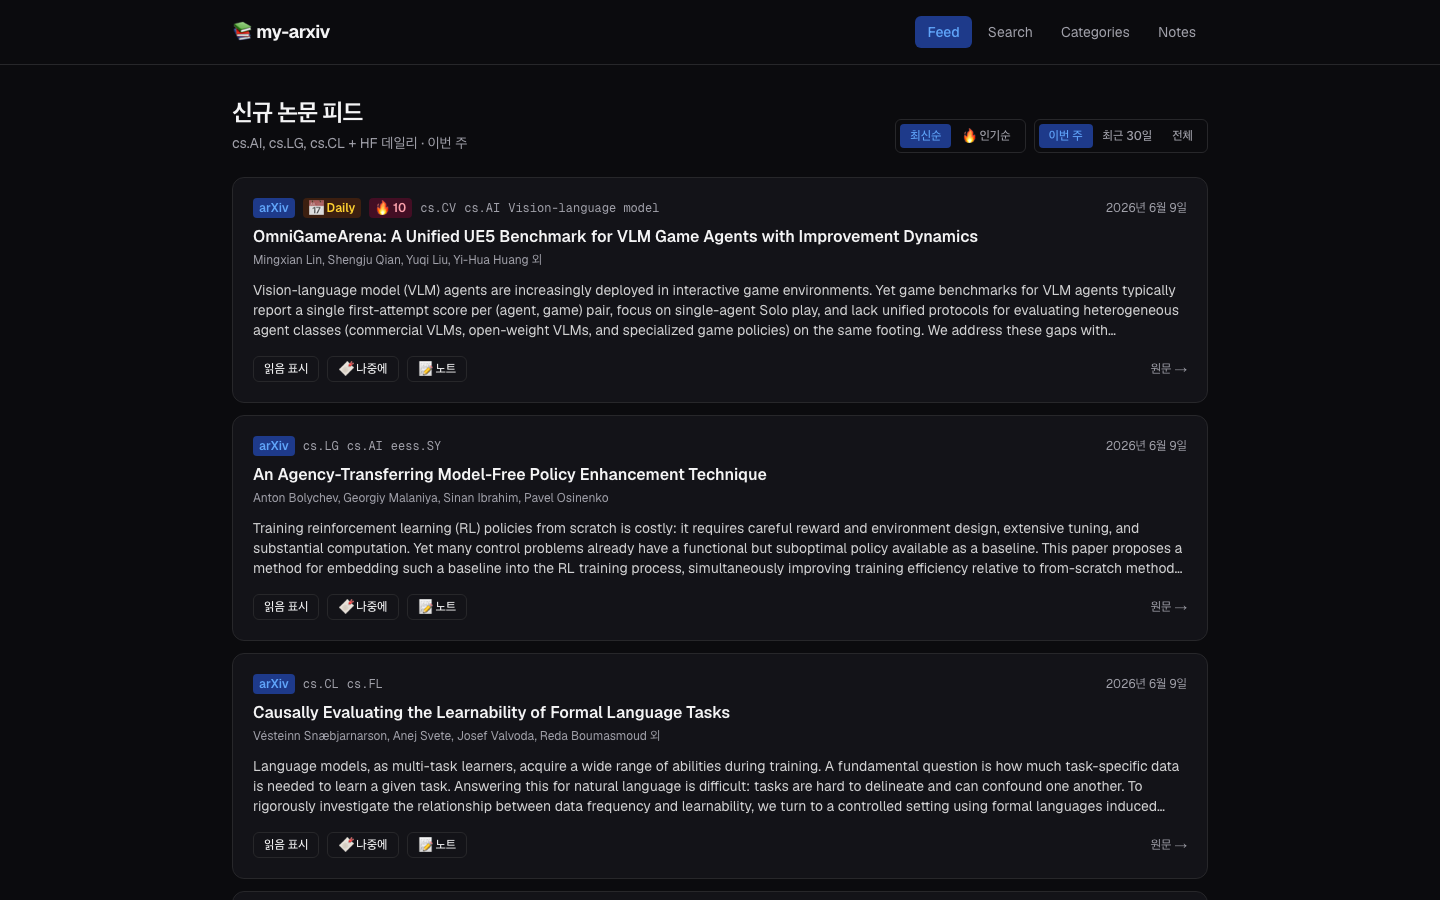
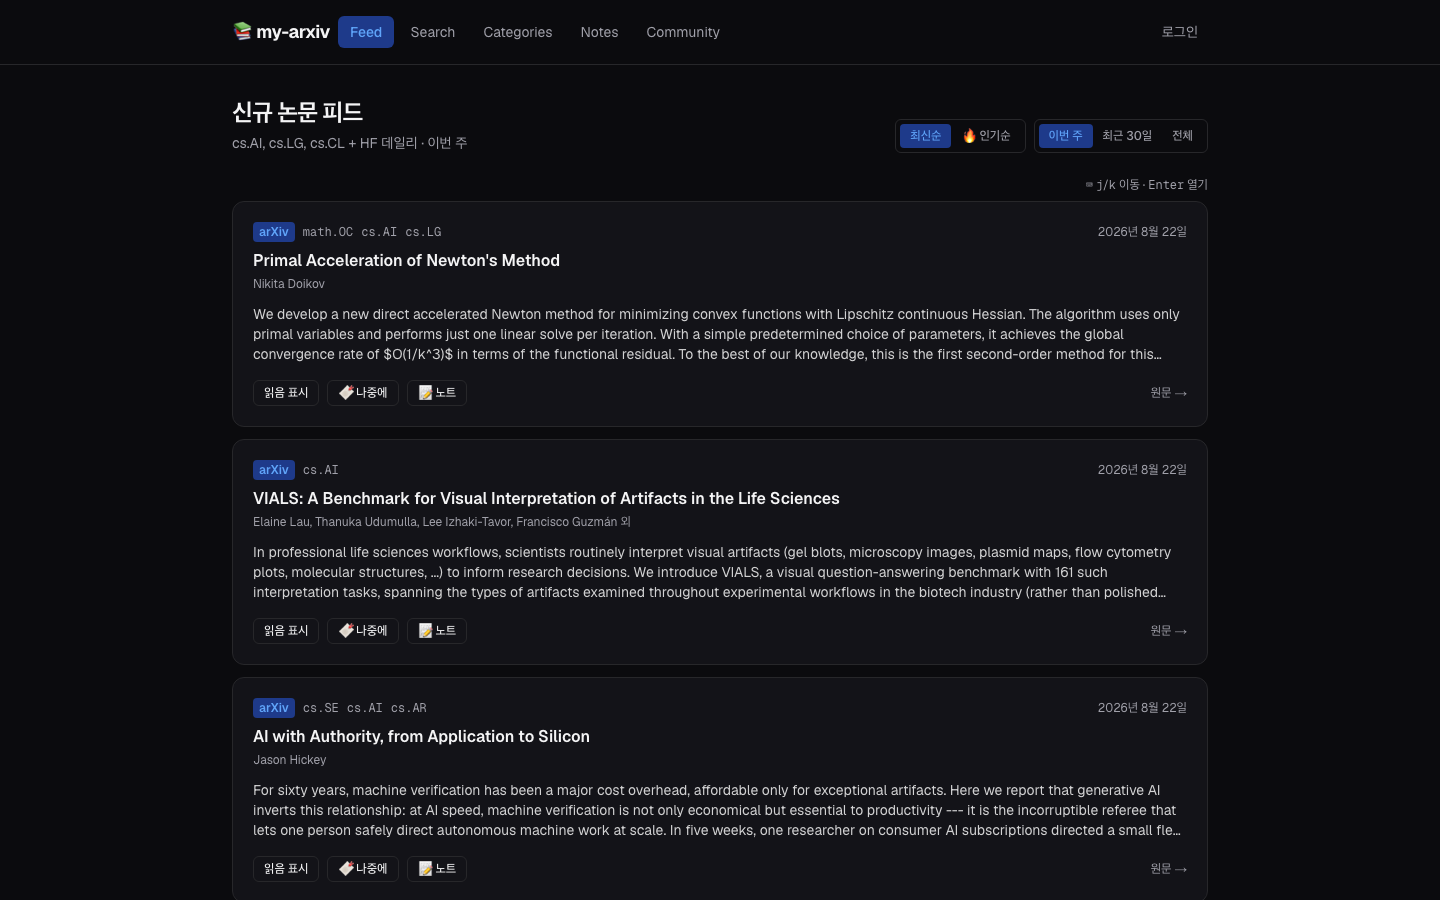
chore: EN years span-based, refresh my-arxiv card
- EN now reads "6+ yrs" from career.spanYears (first job → today, gaps
  included), which is what English résumés conventionally mean. KO keeps
  년차 off the gap-excluded sum, matching Korean convention. Both derive
  from the same experience dates.

- my-arxiv grew well past "feed + abstract summary": Gemini now answers
  free-form questions grounded in the paper's full text (arxiv.org/html
  with abstract fallback, guarded against answering beyond source), and
  there's a study-writeup community on Supabase Auth + RLS with
  comments, likes, profiles, and image uploads. Screenshot re-captured;
  stack picks up Supabase/OAuth/PWA and drops the stale Docker/GHCR.

diff --git a/lib/profile.ts b/lib/profile.ts
@@ -83,8 +83,9 @@ const sideProjectsBase = {
       "Gemini 2.5 Flash",
       "arXiv Atom API",
       "HuggingFace API",
-      "Docker",
-      "GHCR",
+      "Supabase (Postgres · Auth · RLS)",
+      "GitHub OAuth",
+      "PWA",
     ],
   },
   noodle: {
@@ -236,14 +237,14 @@ const profileKo = {
     {
       ...sideProjectsBase.myArxiv,
       name: "my-arxiv 📰",
-      tagline: "관심 분야의 신규 논문을 한 곳에서 — Gemini로 한국어 요약까지",
+      tagline: "논문 디스커버리부터 학습 공유까지 — 한국어 요약·Q&A가 붙은 커뮤니티",
       description:
-        "arXiv + HuggingFace Daily Papers를 통합 피드로 머지하고, Gemini 2.5 Flash로 abstract를 한국어 요약. 카테고리 토글·통합 검색·노트·읽음 기록까지 자체 디스커버리 워크플로우.",
+        "arXiv + HuggingFace Daily Papers를 통합 피드로 머지하고, Gemini 2.5 Flash가 논문 본문(arxiv.org/html, 없으면 abstract 폴백)을 근거로 구조화 한국어 요약과 자유 Q&A를 제공. 근거 밖 내용은 답하지 않도록 프롬프트 가드. 노트·읽음 추적에 더해 Supabase Auth·RLS 기반 학습 글 커뮤니티(댓글·좋아요·프로필·이미지 업로드)까지 확장했어요.",
       highlights: [
+        "본문 기반 요약 · Q&A",
         "arXiv + HF 통합 피드",
-        "Gemini 한국어 요약",
-        "Notes & 읽음 추적",
-        "Bio · 뇌과학 포함",
+        "커뮤니티 (RLS 권한)",
+        "PWA · 오프라인 캐시",
       ],
     },
     {
@@ -319,10 +320,10 @@ const profileEn: typeof profileKo = {
   ...contact,
   tagline: "AI Engineer shipping LLM systems to production",
   subtagline:
-    `${career.years}+ years taking RAG, agents, and MLOps from prototype to production — across finance, edtech, and healthcare.`,
+    `${career.spanYears}+ years taking RAG, agents, and MLOps from prototype to production — across finance, edtech, and healthcare.`,
 
   stats: [
-    { label: "Experience", value: `${career.years}+ yrs` },
+    { label: "Experience", value: `${career.spanYears}+ yrs` },
     { label: "Production AI projects", value: "5+" },
     { label: "Papers published", value: "2" },
   ],
@@ -340,14 +341,14 @@ const profileEn: typeof profileKo = {
     {
       ...sideProjectsBase.myArxiv,
       name: "my-arxiv 📰",
-      tagline: "New papers in your fields, in one feed — Korean summaries via Gemini",
+      tagline: "From paper discovery to shared learning — Korean summaries, grounded Q&A, community",
       description:
-        "Merges arXiv + HuggingFace Daily Papers into one feed and summarizes abstracts in Korean with Gemini 2.5 Flash. A personal discovery workflow with category toggles, unified search, notes, and read-tracking.",
+        "Merges arXiv + HuggingFace Daily Papers into one feed, then has Gemini 2.5 Flash produce structured Korean summaries and answer free-form questions — grounded in the paper's full text (arxiv.org/html, falling back to the abstract), with prompt guards against answering beyond the source. Beyond notes and read-tracking, it now hosts a study-writeup community on Supabase Auth + RLS (comments, likes, profiles, image uploads).",
       highlights: [
+        "Full-text summary & Q&A",
         "arXiv + HF feed",
-        "Gemini KO summary",
-        "Notes & read-tracking",
-        "incl. bio · neuro",
+        "Community (RLS auth)",
+        "PWA · offline cache",
       ],
     },
     {

diff --git a/lib/career.ts b/lib/career.ts
@@ -2,39 +2,55 @@
 // on the site age by themselves. Nothing here is hand-maintained — editing
 // `experience` in profile.ts is enough.
 //
-// Sums each tenure rather than measuring first-job → today, because there are
-// gaps between roles (e.g. 2023.07 → 2024.01) that shouldn't be counted.
+// Two different readings, both used:
+// - `months`/`ko`  = sum of tenures, gaps excluded. Matches how Korean
+//   résumés state 총 경력, and feeds 년차.
+// - `spanYears`    = first job → today, gaps included. What "N+ years of
+//   experience" conventionally means on an English résumé.
 
 type Tenure = { period: string; role: string };
 
-/** "2025.12 – 현재" | "2020.04 – 2022.05" → months worked (end exclusive). */
-function tenureMonths(period: string, now: Date): number {
+/** "2025.12" → absolute month index. NaN when unparseable. */
+function toMonthIndex(ym: string): number {
+  const [y, m] = ym.split(".").map((n) => Number.parseInt(n, 10));
+  return Number.isFinite(y) ? y * 12 + (Number.isFinite(m) ? m : 1) : Number.NaN;
+}
+
+/** "2025.12 – 현재" | "2020.04 – 2022.05" → [startIdx, endIdx] (inclusive). */
+function parsePeriod(period: string, now: Date): [number, number] {
   const [rawStart, rawEnd = ""] = period.split(/[–-]/).map((s) => s.trim());
-  const [sy, sm] = rawStart.split(".").map((n) => Number.parseInt(n, 10));
-  if (!Number.isFinite(sy)) return 0;
-
+  const start = toMonthIndex(rawStart);
   const ongoing = rawEnd.includes("현재") || rawEnd === "";
-  const [ey, em] = ongoing
-    ? [now.getFullYear(), now.getMonth() + 1]
-    : rawEnd.split(".").map((n) => Number.parseInt(n, 10));
-  if (!Number.isFinite(ey)) return 0;
-
-  return Math.max(0, (ey - sy) * 12 + (em - (sm || 1)) + 1);
+  const end = ongoing
+    ? now.getFullYear() * 12 + (now.getMonth() + 1)
+    : toMonthIndex(rawEnd);
+  return [start, end];
 }
 
 export function computeCareer(tenures: Tenure[], now = new Date()) {
-  const months = tenures.reduce((sum, t) => sum + tenureMonths(t.period, now), 0);
+  const ranges = tenures
+    .map((t) => parsePeriod(t.period, now))
+    .filter(([s, e]) => Number.isFinite(s) && Number.isFinite(e));
+
+  // inclusive month count — "2020.04 – 2022.05" is 26 months, matching how
+  // these tenures are stated on the résumé itself
+  const months = ranges.reduce((sum, [s, e]) => sum + Math.max(0, e - s + 1), 0);
   const years = Math.floor(months / 12);
   const rest = months % 12;
 
-  // 년차: Korean convention counts the year you're currently in.
-  const nthYear = years + 1;
+  const firstStart = Math.min(...ranges.map(([s]) => s));
+  const nowIdx = now.getFullYear() * 12 + (now.getMonth() + 1);
+  const spanMonths = Math.max(0, nowIdx - firstStart + 1);
+
   const contract = tenures.filter((t) => t.role.includes("프리랜서")).length;
 
   return {
     months,
     years,
-    nthYear,
+    /** 년차: Korean convention counts the year you're currently in. */
+    nthYear: years + 1,
+    /** Whole years since the first job, gaps included — for "6+ yrs". */
+    spanYears: Math.floor(spanMonths / 12),
     contract,
     fullTime: tenures.length - contract,
     ko: rest ? `${years}년 ${rest}개월` : `${years}년`,
